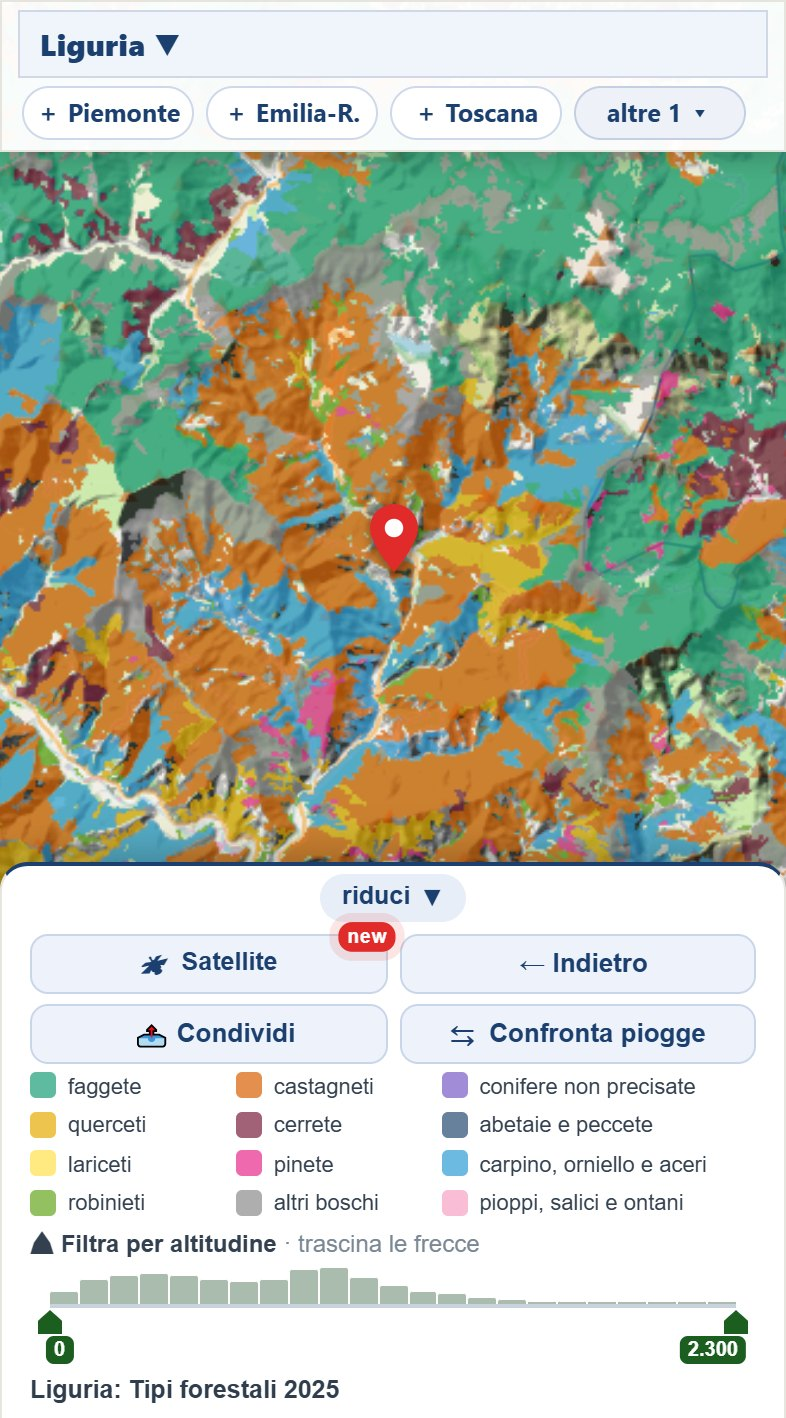
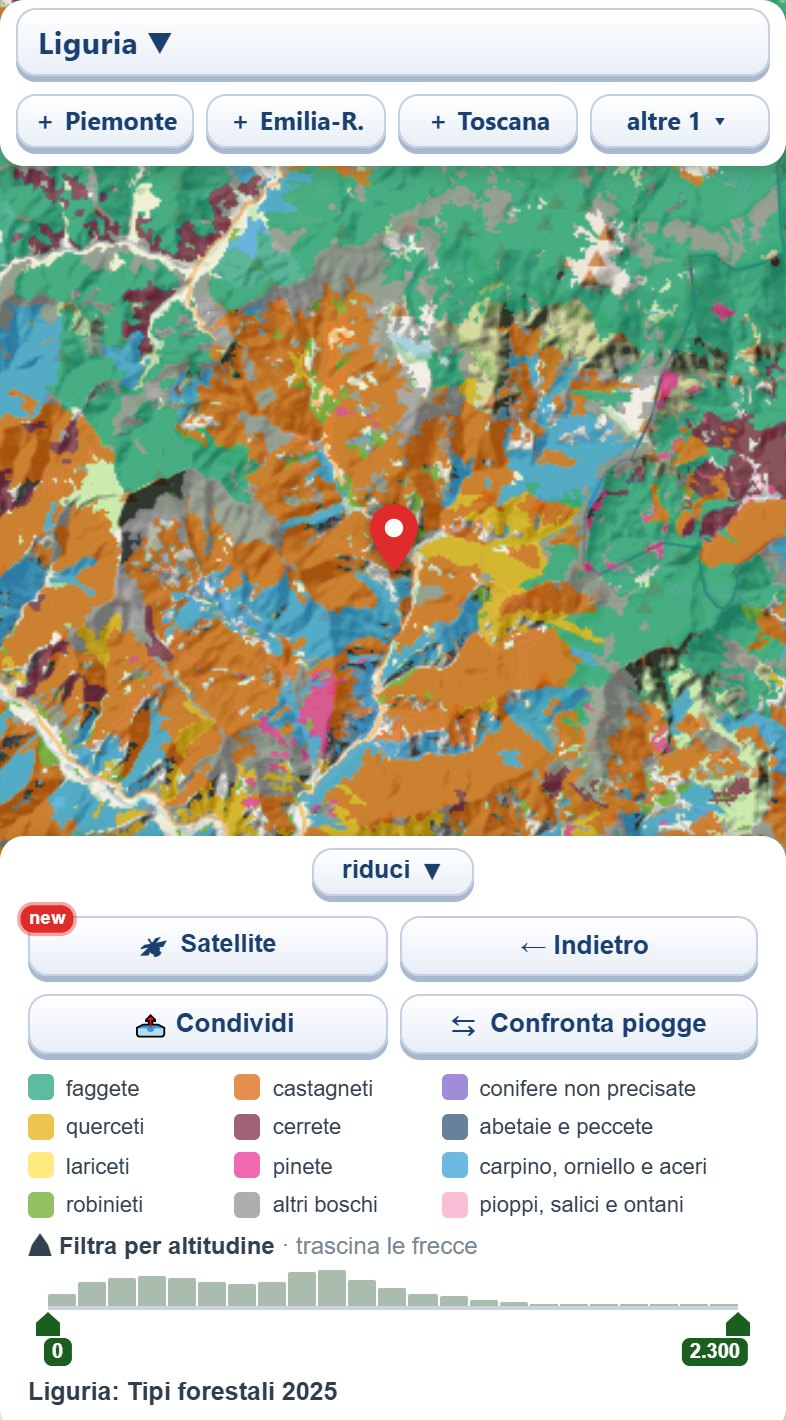
Guida e anteprima social: gli scatti con la grafica nuova
Rifatte dal codice pubblicato (foto satellite sotto la pioggia, tasti nuovi) le nove
figure della guida che mostravano la mappa vecchia: mappa (Liguria 18-24 ottobre, la
settimana di pioggia), periodo, pioggia colorata, temperature di ieri, radar (Sardegna,
1/11 alle 16:30), satellite, boschi, boschi dal telefono, filtro di altitudine. Nella
guida misure e testi aggiornati; corrette anche le misure di boschi, boschi-telefono e
boschi-nuvoletta, che non tornavano gia' prima.
preview.jpg (og:image): a sinistra la pioggia degli ultimi 90 giorni sopra la foto
satellite, a destra i boschi; ?v=20261101 perche' i social la riscarichino.
Attrezzi nel banco di lavoro, cartella scatti-105-quater.

diff --git a/guida/index.html b/guida/index.html
@@ -417,7 +417,7 @@ header.tB{--t-max:1080px;--t-pad:20px}
 <p>Il sito raccoglie lo storico della <b>pioggia già caduta</b>, misurata da oltre 5.700 pluviometri delle reti pubbliche di monitoraggio in Italia, Svizzera, Austria, Francia e Slovenia, oltre alle <b>previsioni</b> per i giorni successivi. Le due cose stanno in sezioni separate: lo storico dice quanti millimetri sono caduti in un punto preciso nei giorni scorsi, le previsioni che tempo farà nei prossimi sette giorni (<a href="#previsioni">capitolo 12</a>).</p>
 
 <figure class="media">
-  <img src="pioggia-colorata.jpg" alt="La mappa della pioggia degli ultimi 30 giorni su Piemonte, Lombardia e Veneto: colori dal blu al rosso e i pallini bianchi dei pluviometri" width="1000" height="560" loading="lazy">
+  <img src="pioggia-colorata.jpg" alt="La mappa della pioggia degli ultimi 30 giorni su Piemonte, Lombardia e Veneto: colori dal blu al rosso sopra la foto dal satellite e i pallini bianchi dei pluviometri" width="1000" height="560" loading="lazy">
   <figcaption>Piemonte, Lombardia e Veneto, la pioggia degli ultimi 30 giorni: dal blu dove ne è caduta poca al rosso dove ne è caduta di più. Ogni pallino bianco è un pluviometro.</figcaption>
 </figure>
 
@@ -456,7 +456,7 @@ header.tB{--t-max:1080px;--t-pad:20px}
 <p>Il pannello del periodo somma la pioggia dei giorni che scegli. I tasti pronti sono sei, più le date libere.</p>
 
 <figure class="stretta">
-  <img src="periodo.jpg" alt="Il pannello del periodo: Ieri, 7, 10, 15, 20, 30 giorni, Date personalizzate, Radar pioggia, Mappa boschi, Satellite e Piogge per funghi" width="786" height="456" loading="lazy">
+  <img src="periodo.jpg" alt="Il pannello del periodo: Ieri, 7, 10, 15, 20, 30 giorni, Date personalizzate, Radar pioggia, Mappa boschi, Satellite e Piogge per funghi" width="786" height="498" loading="lazy">
   <figcaption>Sei periodi pronti, le date libere, il radar, la mappa boschi, il satellite e il tasto verde della finestra per i funghi.</figcaption>
 </figure>
 
@@ -484,8 +484,8 @@ header.tB{--t-max:1080px;--t-pad:20px}
 <h2 id="leggere"><span class="n">7</span>Leggere la mappa</h2>
 
 <figure>
-  <img src="mappa.jpg" alt="La mappa della Liguria a 7 giorni: la sfumatura dei colori, i pallini dei pluviometri e il pannello della legenda" width="1440" height="587" loading="lazy">
-  <figcaption>Liguria a sette giorni. A sinistra i due pannelli, sotto la scala dei colori con i quattro numeri del periodo. Ogni pallino è un pluviometro.</figcaption>
+  <img src="mappa.jpg" alt="La mappa della Liguria in una settimana di pioggia, dal 18 al 24 ottobre: la sfumatura dei colori sopra la foto dal satellite, i pallini dei pluviometri e i pannelli del periodo e della legenda" width="1440" height="704" loading="lazy">
+  <figcaption>Liguria a sette giorni, dal 18 al 24 ottobre. A sinistra i due pannelli, sotto la scala dei colori con i quattro numeri del periodo. Ogni pallino è un pluviometro.</figcaption>
 </figure>
 
 <h3>I pallini sono misure</h3>
@@ -506,7 +506,7 @@ header.tB{--t-max:1080px;--t-pad:20px}
 <h2 id="temperature-ieri"><span class="n">8</span>Le temperature di ieri sui pallini</h2>
 <p>Scelta una regione, sulla mappa compare l'icona col termometro <span class="ui">🌡 ieri</span>: dal computer in alto a destra, sotto la casella di ricerca; dal telefono in basso a destra, appena sopra il pannello. Toccandola diventa blu e scrive accanto ai pallini la <b>minima</b>, in blu, e la <b>massima</b>, in rosso, del giorno prima. Si accende anche sopra la pioggia del periodo scelto, così vedi insieme quanto è piovuto e com'erano le notti. Da lontano i numeri si diradano per non accavallarsi: avvicinandoti compaiono tutti. Si spegne toccando di nuovo l'icona. Nel radar, nella mappa boschi e nelle previsioni l'icona non c'è.</p>
 <figure class="stretta">
-  <img src="temperature-ieri.jpg" alt="La Toscana dal telefono con le temperature di ieri accanto ai pallini: la minima in blu e la massima in rosso, e in basso a destra l'icona accesa" width="786" height="760" loading="lazy">
+  <img src="temperature-ieri.jpg" alt="La Toscana dal telefono con le temperature di ieri accanto ai pallini: la minima in blu e la massima in rosso, e in basso a destra l'icona accesa" width="786" height="698" loading="lazy">
   <figcaption>La Toscana dal telefono con l'icona accesa, in basso a destra. Accanto a ogni pallino, minima e massima di ieri.</figcaption>
 </figure>
 <p class="mini">Se una stazione ha dato un valore che i vicini smentiscono, per esempio per un sensore guasto, quel numero non lo scriviamo e il pallino resta senza. Il link e la foto condivisa portano le temperature accese.</p>
@@ -597,8 +597,8 @@ header.tB{--t-max:1080px;--t-pad:20px}
 <p>Il tasto <span class="ui">Radar pioggia</span> cambia modo: la sfumatura dei cumulati si spegne, i pallini spariscono, restano i confini e compare <b>la pioggia in corso adesso</b>. Tre tasti e una linea del tempo: <span class="ui">Adesso</span>, <span class="ui">▶ -2 ore</span> per rivedere da dove è arrivata, <span class="ui">+40 min</span> per i quaranta minuti seguenti. Si esce col tasto, o semplicemente scegliendo un periodo.</p>
 
 <figure class="media">
-  <img src="radar.jpg" alt="La diretta radar: un fronte di pioggia sulle Alpi, forte in Tirolo e verso Salisburgo, più debole sull'Alto Adige e sul Friuli, col pannello dei tasti Adesso, meno due ore e più quaranta minuti" width="893" height="538" loading="lazy">
-  <figcaption>Un fronte sulle Alpi, il 24 settembre alle 18:30: giallo e arancio dove piove forte, in Tirolo e verso Salisburgo, azzurro sull'Alto Adige e sul Friuli. A sinistra i tre tasti e la scala in millimetri all'ora.</figcaption>
+  <img src="radar.jpg" alt="La diretta radar: la pioggia sulla Sardegna e sul mare intorno, forte sul nord dell'isola e lungo la costa orientale, col pannello dei tasti Adesso, meno due ore e più quaranta minuti" width="893" height="656" loading="lazy">
+  <figcaption>La pioggia sulla Sardegna, il 1° novembre alle 16:30: giallo e arancio dove piove forte, sul nord dell'isola e lungo la costa orientale, azzurro dove piove poco. A sinistra i tre tasti e la scala in millimetri all'ora.</figcaption>
 </figure>
 
 <p>Il radar vede la pioggia dall'alto, a due chilometri di risoluzione: ti dice <i>dove</i> sta piovendo adesso e dove andrà nei prossimi quaranta minuti. <i>Quanto</i> è caduto lo misurano i pluviometri, come in tutto il resto del sito.</p>
@@ -620,7 +620,7 @@ header.tB{--t-max:1080px;--t-pad:20px}
 <p>La pioggia dice <i>quando</i> andare, il bosco dice <i>dove</i>: faggete, castagneti, querceti e abetaie non danno gli stessi funghi. Il tasto <span class="ui">🌲 Mappa boschi</span>, accanto a quello del radar, cambia modo: la pioggia e i pallini spariscono, e <b>i boschi si colorano per tipo</b>, in undici gruppi, sopra il rilievo di monti e valli.</p>
 
 <figure class="media">
-  <img src="boschi.jpg" alt="La mappa boschi in Val d'Aveto, fra Liguria ed Emilia: faggete in verde, castagneti in arancio, querceti in ocra sopra il rilievo, col pannello della legenda" width="1000" height="671" loading="lazy">
+  <img src="boschi.jpg" alt="La mappa boschi in Val d'Aveto, fra Liguria ed Emilia: faggete in verde, castagneti in arancio, querceti in ocra sopra il rilievo, col pannello della legenda" width="1000" height="557" loading="lazy">
   <figcaption>La Val d'Aveto, a cavallo fra Liguria ed Emilia: faggete in verde, castagneti in arancio, querceti in ocra, e sotto i colori il rilievo delle valli. Sotto la legenda, le due carte usate.</figcaption>
 </figure>
 <p>Ogni regione e ogni valle ha anche la sua pagina, con quanto pesa ogni tipo di bosco, i paesi intorno e la carta ufficiale da cui viene il colore: parti dalla <a href="https://precipitazioni.avventuremicologiche.it/mappa-forestale/">mappa forestale d'Italia</a>. Castagneti, querceti e abetaie hanno anche una pagina loro, con i loro funghi: <a href="https://precipitazioni.avventuremicologiche.it/mappa-forestale/castagneti/">castagneti</a>, <a href="https://precipitazioni.avventuremicologiche.it/mappa-forestale/querceti/">querceti</a>, <a href="https://precipitazioni.avventuremicologiche.it/mappa-forestale/abetaie-e-peccete/">abetaie e peccete</a>.</p>
@@ -631,7 +631,7 @@ header.tB{--t-max:1080px;--t-pad:20px}
 <p>Tocca un punto qualsiasi della mappa: si apre una nuvoletta con tutto quello che serve per decidere se quel posto vale il giro.</p>
 
 <figure class="stretta">
-  <img src="boschi-nuvoletta.jpg" alt="La nuvoletta aperta toccando un castagneto vicino a Borzonasca: quota 208 metri, versante a sud-est, pendenza 28 gradi, sole del mattino, e il tasto Apri su Google Maps" width="786" height="744" loading="lazy">
+  <img src="boschi-nuvoletta.jpg" alt="La nuvoletta aperta toccando un castagneto vicino a Borzonasca: quota 208 metri, versante a sud-est, pendenza 28 gradi, sole del mattino, e il tasto Apri su Google Maps" width="786" height="704" loading="lazy">
   <figcaption>Un tocco su un castagneto vicino a Borzonasca: 208 metri, versante a sud-est con 28° di pendenza, cioè sole del mattino e terreno che asciuga. Sotto, il tasto per aprire il punto su Google Maps.</figcaption>
 </figure>
 <div class="bosco">
@@ -648,7 +648,7 @@ header.tB{--t-max:1080px;--t-pad:20px}
 <p>Scegli la regione e tocca il tasto: la mappa inquadra la regione. <b>Se prima hai cercato un paese, si apre sul paese</b>, abbastanza vicina da leggere i versanti. Da lontano i boschi sono una macchia unica: ingrandisci sulla valle che ti interessa. Si esce col tasto stesso, che nel frattempo è diventato <span class="ui">✕ Chiudi mappa</span>, con <span class="ui">↩ Indietro</span>, oppure scegliendo un periodo.</p>
 
 <figure class="stretta">
-  <img src="boschi-telefono.jpg" alt="La mappa boschi dal telefono intorno a Borzonasca, col segnaposto rosso, il rilievo sotto i colori e sotto la legenda dei tipi di bosco" width="786" height="1404" loading="lazy">
+  <img src="boschi-telefono.jpg" alt="La mappa boschi dal telefono intorno a Borzonasca, col segnaposto rosso, il rilievo sotto i colori e sotto la legenda dei tipi di bosco" width="786" height="1420" loading="lazy">
   <figcaption>Dal telefono, intorno a Borzonasca: castagneti in arancio sui versanti, faggete in verde più in là, e il rilievo che fa leggere le valli. Sotto la legenda e il nome della carta.</figcaption>
 </figure>
 <p>Anche le pagine di paese e di zona delle regioni coperte hanno il tasto <span class="ui">Guarda i boschi</span>, che apre la mappa boschi già centrata su quel posto.</p>
@@ -697,7 +697,7 @@ header.tB{--t-max:1080px;--t-pad:20px}
 <p>Il tasto <span class="ui">🛰 Satellite</span> sta accanto a <span class="ui">Mappa boschi</span>, e c'è anche nel pannello della mappa boschi: la cartina lascia il posto alla foto dal satellite e i colori dei boschi restano sopra. Ingrandendo fino in fondo si distinguono le case, i singoli alberi e i sentieri, e capisci se quel bosco è fitto o rado, se c'è una strada per arrivarci, dove lasciare la macchina.</p>
 
 <figure class="media">
-  <img src="satellite.jpg" alt="Santo Stefano d'Aveto dal satellite nella mappa boschi: le case fra i prati, i boschi colorati sopra la foto, la nuvoletta aperta su un robinieto a 981 metri, e nel pannello il tasto Satellite acceso con la manopola dell'intensità" width="1000" height="566" loading="lazy">
+  <img src="satellite.jpg" alt="Santo Stefano d'Aveto dal satellite nella mappa boschi: le case fra i prati, i boschi colorati sopra la foto, la nuvoletta aperta su un robinieto a 981 metri, e nel pannello il tasto Satellite acceso con la manopola dell'intensità" width="1000" height="573" loading="lazy">
   <figcaption>Santo Stefano d'Aveto dal satellite: le case fra i prati, i boschi in colore sopra la foto, e la nuvoletta di un robinieto a 981 metri con il tasto per Google Maps. Nel pannello il tasto Satellite acceso, in verde, e la manopola dell'intensità.</figcaption>
 </figure>
 <div class="bosco">

diff --git a/index.html b/index.html
@@ -75,7 +75,9 @@
   <!-- 20/10/2026 (suo): ANTEPRIMA NUOVA, a sinistra la pioggia degli ultimi 90 giorni e a destra i boschi, Italia intera
        (attrezzi nel banco di lavoro: mockup-indice-funghi\scatta-anteprima-social.js e componi-anteprima.js). ?v= nuovo:
        i social tengono l'anteprima in memoria per indirizzo. -->
-  <meta property="og:image" content="https://precipitazioni.avventuremicologiche.it/preview.jpg?v=20261020">
+  <!-- 1/11/2026 (scheda 105 quater, suo «rifalli»): rifatta con la grafica nuova, la pioggia SOPRA la foto satellite nostra
+       (attrezzi nel banco: scatti-105-quater\anteprima-social-105q.js e componi-anteprima-105q.js). ?v= nuovo. -->
+  <meta property="og:image" content="https://precipitazioni.avventuremicologiche.it/preview.jpg?v=20261101">
   <meta property="og:image:width" content="1200">
   <meta property="og:image:height" content="630">
   <meta property="og:image:type" content="image/jpeg">
@@ -98,7 +100,7 @@
   }
   </script>
   <meta name="twitter:card" content="summary_large_image">
-  <meta name="twitter:image" content="https://precipitazioni.avventuremicologiche.it/preview.jpg?v=20261020">
+  <meta name="twitter:image" content="https://precipitazioni.avventuremicologiche.it/preview.jpg?v=20261101">
   <meta name="theme-color" content="#1b3f6e">
 <meta charset="UTF-8">
 <meta name="viewport" content="width=device-width, initial-scale=1.0">
